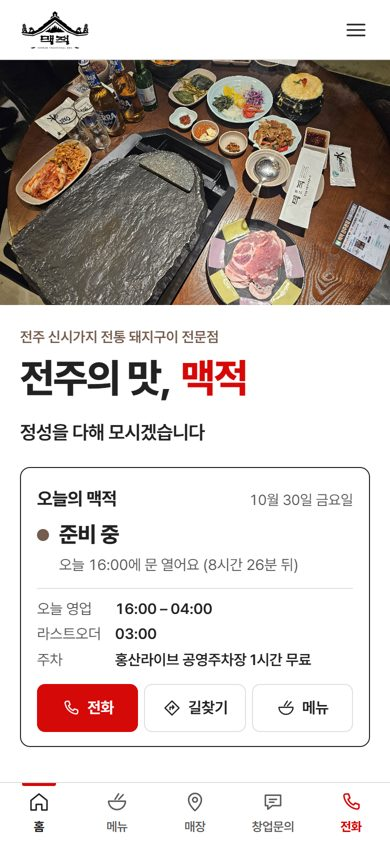
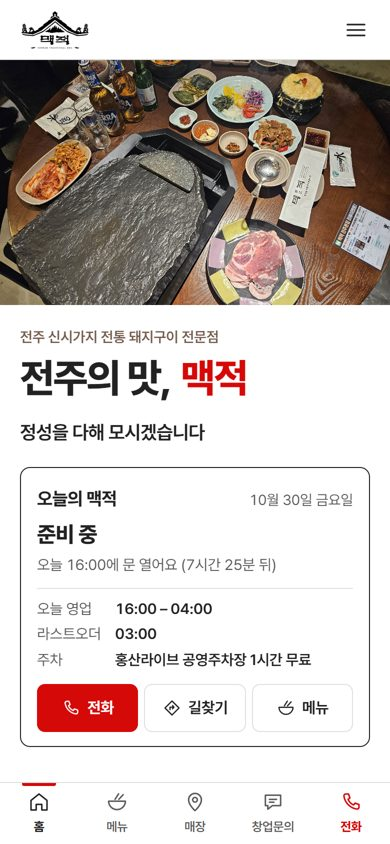
맥적 3안 첫 화면 글 칸을 넓은 화면에서도 넉넉하게, 준비 중 앞 점 표시 삭제 (1안 사업 상태 네모 표시도 삭제)

Changed region(s): [[0.0923, 0.6161, 0.7692, 0.6777]]

diff --git a/3/style.css b/3/style.css
@@ -123,17 +123,18 @@ button { cursor: pointer; }
 
 /* ───────── 첫 화면 ───────── */
 .hero {
-  display: grid; grid-template-columns: minmax(400px, 39%) 1fr; min-height: max(640px, 100svh);
+  --hero-gutter: max(var(--pad), calc((100vw - var(--wrap)) / 2));
+  display: grid; grid-template-columns: calc(var(--hero-gutter) + clamp(440px, 40vw, 600px)) 1fr; min-height: max(640px, 100svh);
   padding-top: var(--hd-h);
 }
 .hero-copy {
   display: flex; flex-direction: column; justify-content: center;
-  padding: 48px 48px 64px max(var(--pad), calc((100vw - var(--wrap)) / 2));
+  padding: 48px 56px 64px var(--hero-gutter);
 }
 .hero-kicker { margin: 0 0 18px; font-size: 16px; font-weight: 600; color: var(--soil); }
 .hero-title { margin: 0; font-size: clamp(54px, 5.6vw, 84px); line-height: 1.12; font-weight: 800; letter-spacing: -0.035em; }
 .hero-title .ln { display: block; overflow: hidden; padding-bottom: .04em; }
-.hero-title .ln > span { display: block; animation: rise .9s var(--ease) both; }
+.hero-title .ln > span { display: block; white-space: nowrap; animation: rise .9s var(--ease) both; }
 .hero-title .ln + .ln > span { animation-delay: .12s; color: var(--fire); }
 @keyframes rise { from { transform: translateY(105%); } to { transform: none; } }
 .hero-sub { margin: 18px 0 0; font-size: 24px; font-weight: 650; letter-spacing: -0.02em; }
@@ -154,16 +155,9 @@ button { cursor: pointer; }
 .today-head h2 { margin: 0; font-size: 18px; font-weight: 750; letter-spacing: -0.02em; }
 .today-date { margin: 0; font-size: 14.5px; color: var(--ink-2); }
 .today-status { margin: 14px 0 0; display: flex; align-items: center; flex-wrap: wrap; gap: 4px 10px; }
-.today-status .dot { width: 12px; height: 12px; border-radius: 50%; background: var(--soil); position: relative; flex: none; }
 .today-status strong { font-size: 26px; line-height: 1.25; font-weight: 800; letter-spacing: -0.025em; }
-.today-when { font-size: 15.5px; color: var(--ink-2); flex-basis: 100%; padding-left: 22px; }
-.today-status[data-state="open"] .dot { background: var(--fire); }
+.today-when { font-size: 15.5px; color: var(--ink-2); flex-basis: 100%; }
 .today-status[data-state="open"] strong { color: var(--fire); }
-.today-status[data-state="open"] .dot::after {
-  content: ""; position: absolute; inset: 0; border-radius: 50%; background: var(--fire);
-  animation: ping 2.4s var(--ease) infinite;
-}
-@keyframes ping { 0% { transform: scale(1); opacity: .45; } 70%, 100% { transform: scale(2.4); opacity: 0; } }
 .today-info { margin: 14px 0 0; padding: 12px 0 0; border-top: 1px solid var(--line); display: grid; gap: 6px; }
 .today-info > div { display: grid; grid-template-columns: 76px 1fr; gap: 8px; font-size: 15.5px; line-height: 1.45; }
 .today-info dt { color: var(--ink-2); }

diff --git a/1/style.css b/1/style.css
@@ -328,8 +328,6 @@ ul, ol { padding: 0; list-style: none; }
 .bz--main .bz__ph { aspect-ratio: 4 / 5; }
 .bz__ph img { width: 100%; height: 100%; object-fit: cover; }
 .bz__state { margin-top: 18px; font-size: 14px; font-weight: 700; display: inline-flex; align-items: center; gap: 8px; }
-.bz__state::before { content: ""; width: 8px; height: 8px; border: 1.5px solid var(--ink); }
-.bz__state.is-now::before { background: var(--fire); border-color: var(--fire); }
 .bz__t { margin-top: 6px; font-size: clamp(20px, 1.8vw, 26px); font-weight: 800; letter-spacing: -0.02em; line-height: 1.35; }
 .bz--main .bz__t { font-size: clamp(26px, 2.6vw, 36px); }
 .bz__d { margin-top: 8px; font-size: 16px; line-height: 1.7; }
@@ -375,7 +373,6 @@ ul, ol { padding: 0; list-style: none; }
 /* ---------- 8. 프랜차이즈 ---------- */
 .fr__grid { display: grid; grid-template-columns: minmax(0, 6fr) minmax(0, 5fr); gap: clamp(32px, 6vw, 112px); align-items: start; }
 .fr__state { display: inline-flex; align-items: center; gap: 8px; font-size: 15px; font-weight: 700; margin-bottom: 18px; }
-.fr__state::before { content: ""; width: 8px; height: 8px; border: 1.5px solid var(--ink); }
 .fr__text .h2 { margin-bottom: 20px; }
 .fr__list { margin-top: 36px; border-top: 1px solid var(--line-ink); }
 .fr__list li { display: grid; grid-template-columns: 120px 1fr; gap: 16px; padding: 14px 0; border-bottom: 1px solid var(--line-ink); font-size: 16px; }

diff --git a/3/index.html b/3/index.html
@@ -113,7 +113,6 @@
           <p class="today-date num" id="todayDate">&nbsp;</p>
         </div>
         <p class="today-status" id="todayStatus" data-state="ready" aria-live="polite">
-          <span class="dot" aria-hidden="true"></span>
           <strong id="todayLabel">영업시간 확인 중</strong>
           <span class="today-when num" id="todayWhen"></span>
         </p>
